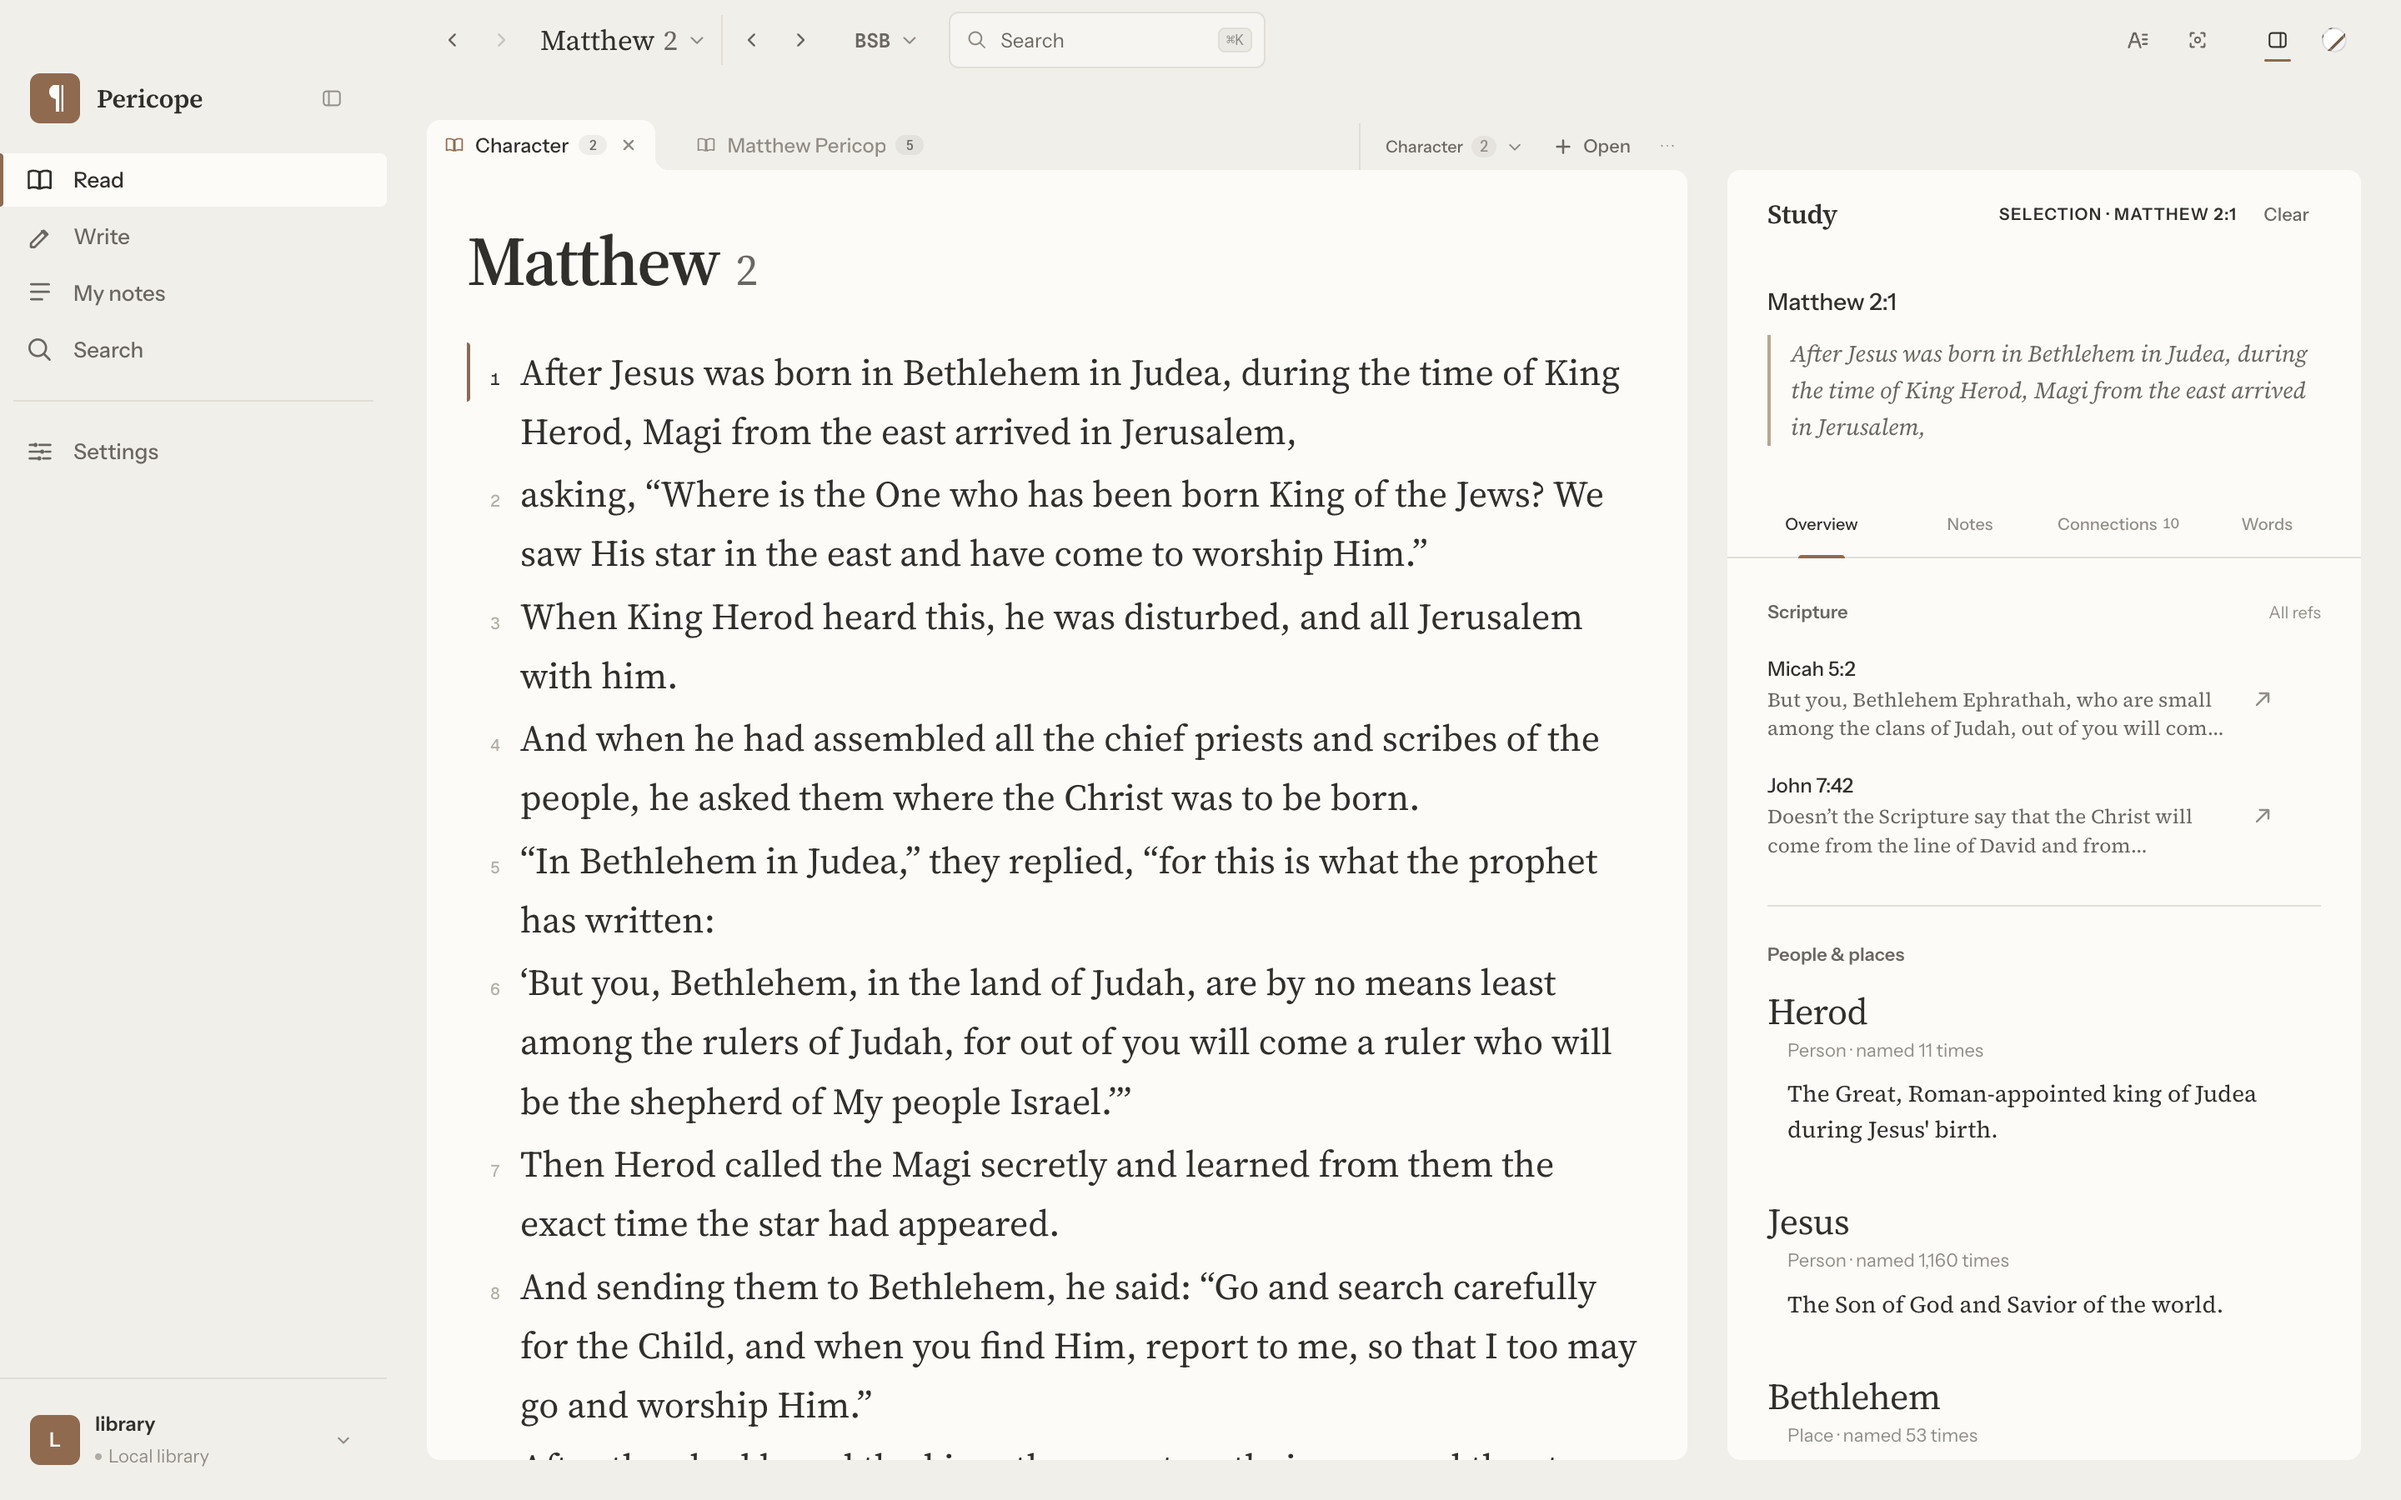
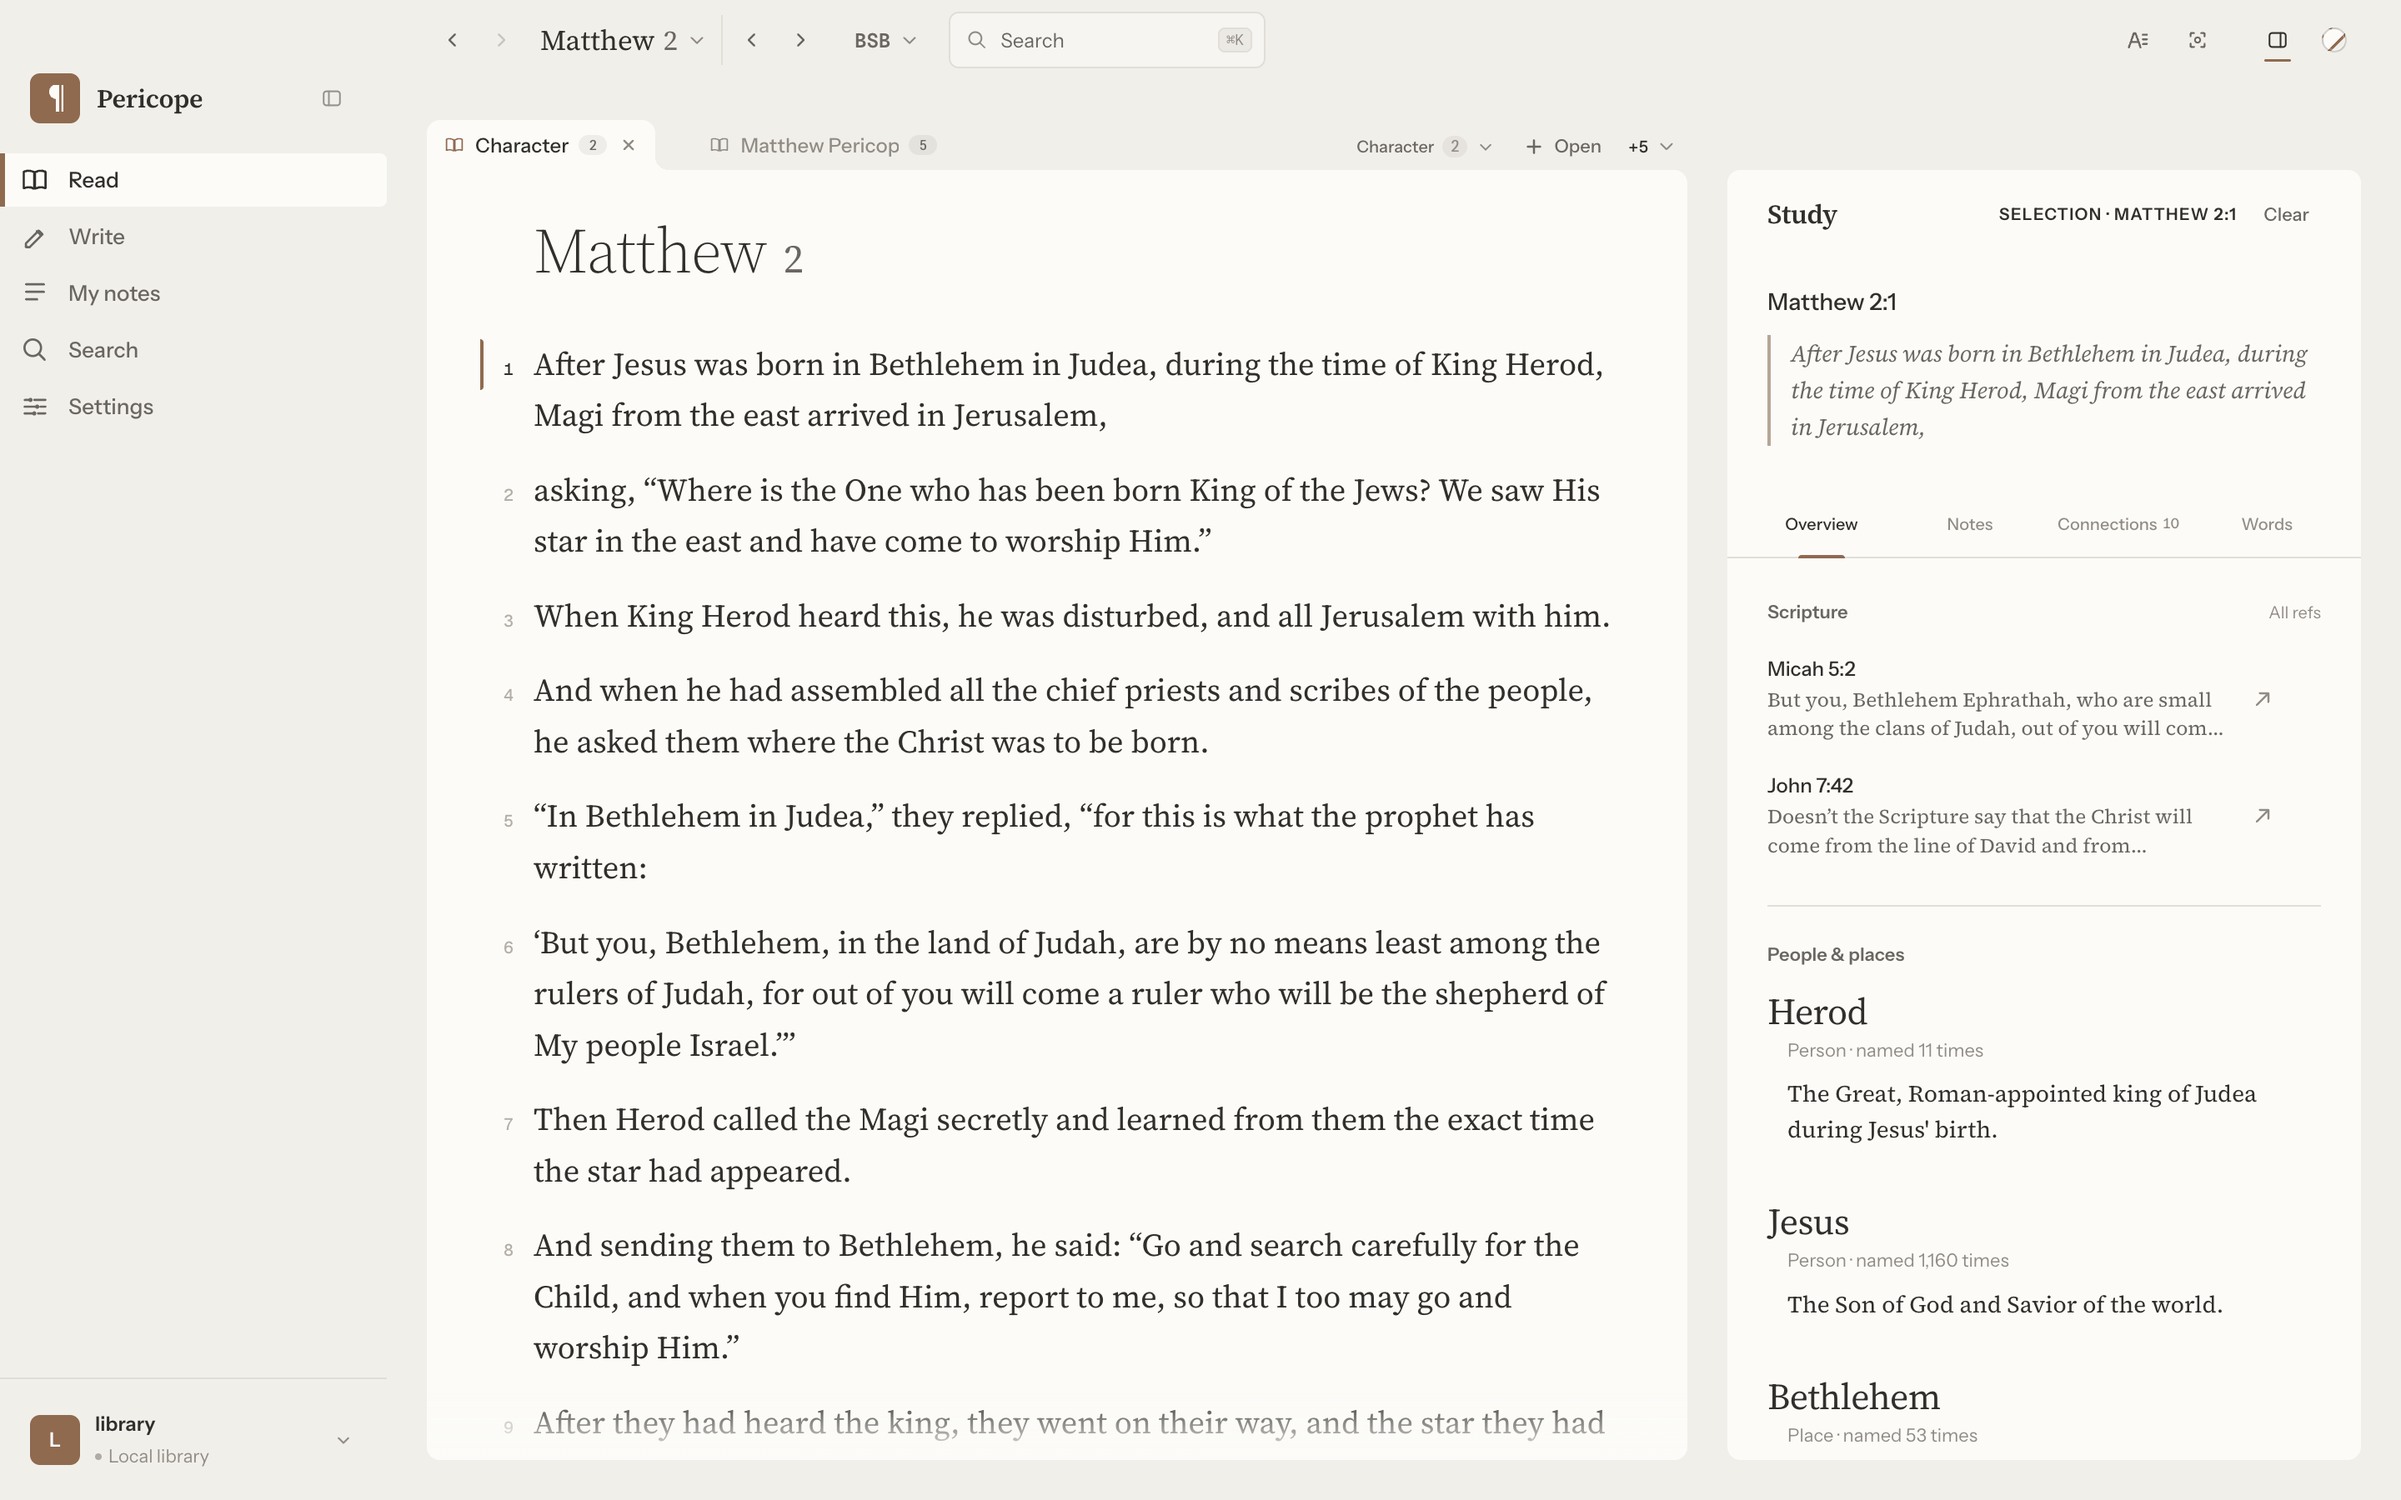
feat: focus mode keeps the rail, as a 12px strip that floats back
A4: "A 12px canvas strip with a 2px grab handle is all that remains — enough to
be discoverable by pointer, too little to be chrome. Hovering it slides the
full rail over the page as a float; moving away dismisses it. The page does not
reflow, ever."

The rail was being unmounted entirely, so entering focus mode reflowed the page
and leaving it reflowed back. A reading column that changes width when you hide
the chrome is a different column, and focus mode exists to leave the column
alone. It now stays mounted and narrows to the strip.

The float is the part worth getting right. position:absolute would have taken
the strip out of flow and shifted the measure 28px the moment the rail
appeared — the exact thing the study forbids. Instead the rail paints its full
232px while a negative margin holds its FLOW width at 12px, so the page never
learns that it grew. Verified: the text's left edge sits at 412 with the strip
closed and at 412 with the rail floated over it.

The floating exit chip goes with it. The strip is the way back, and shipping
both would give focus mode two competing affordances for one act.

Below the narrow breakpoint the strip is suppressed: it is a pointer
affordance, and there is no hover on a touch device to float it with.

diff --git a/src/renderer/styles/rail.css b/src/renderer/styles/rail.css
@@ -282,3 +282,97 @@
     margin: 0;
   }
 }
+
+/* ─── Focus mode (A4) ─────────────────────────────────────────────────────
+   "A 12px canvas strip with a 2px grab handle is all that remains — enough to
+   be discoverable by pointer, too little to be chrome. Hovering it slides the
+   full rail over the page as a float; moving away dismisses it. The page does
+   not reflow, ever."
+
+   That last clause is why the rail stays mounted and narrows rather than
+   unmounting: a reading column that changes width when you hide the chrome is
+   a different column, and focus mode exists to leave the column alone. */
+.app-shell.focus-mode > .sidebar,
+.app-shell.focus-mode > .sidebar.collapsed {
+  width: 12px;
+  min-width: 12px;
+  padding-top: 0;
+  overflow: visible;
+}
+
+.app-shell.focus-mode > .sidebar > *:not(.rail-focus-handle) {
+  opacity: 0;
+  pointer-events: none;
+  transition: opacity var(--transition-fast);
+}
+
+/* The 2px handle, centred in the strip. */
+.rail-focus-handle {
+  position: absolute;
+  top: 50%;
+  left: 5px;
+  width: 2px;
+  height: 24px;
+  padding: 0;
+  border: 0;
+  border-radius: var(--radius-mark);
+  background: var(--border-medium);
+  transform: translateY(-50%);
+  cursor: pointer;
+  transition: background var(--transition-fast);
+}
+
+.rail-focus-handle:hover,
+.rail-focus-handle:focus-visible {
+  background: var(--study-gold);
+}
+
+.rail-focus-handle:focus-visible {
+  outline: 2px solid var(--study-gold-focus);
+  outline-offset: 3px;
+}
+
+/* Hovering the strip floats the whole rail back OVER the page — the one
+   shadow, because this is the one time the rail genuinely floats. The page
+   keeps its 12px offset throughout, so nothing reflows. */
+.app-shell.focus-mode > .sidebar:hover,
+.app-shell.focus-mode > .sidebar:focus-within,
+.app-shell.focus-mode > .sidebar.collapsed:hover,
+.app-shell.focus-mode > .sidebar.collapsed:focus-within {
+  z-index: 40;
+  width: var(--rail-w);
+  margin-right: calc(12px - var(--rail-w));
+  padding-top: env(titlebar-area-height, 28px);
+  background: var(--bg-canvas);
+  box-shadow: var(--shadow-float);
+}
+
+.app-shell.focus-mode > .sidebar:hover > *:not(.rail-focus-handle),
+.app-shell.focus-mode > .sidebar:focus-within > *:not(.rail-focus-handle) {
+  opacity: 1;
+  pointer-events: auto;
+}
+
+.app-shell.focus-mode > .sidebar:hover .rail-focus-handle,
+.app-shell.focus-mode > .sidebar:focus-within .rail-focus-handle {
+  opacity: 0;
+  pointer-events: none;
+}
+
+/* The strip is a pointer affordance. On touch there is no hover to float it
+   with, so focus mode keeps the bottom bar instead. */
+@media (max-width: 979px) {
+  .app-shell.focus-mode > .sidebar {
+    width: 100%;
+    min-width: 0;
+  }
+
+  .app-shell.focus-mode > .sidebar > *:not(.rail-focus-handle) {
+    opacity: 1;
+    pointer-events: auto;
+  }
+
+  .rail-focus-handle {
+    display: none;
+  }
+}

diff --git a/src/renderer/app.tsx b/src/renderer/app.tsx
@@ -1932,11 +1932,23 @@ export function App(): React.JSX.Element {
         onShowToastReady={registerWorkspaceShowToast}
       >
         <div className={shellClass} data-theme={theme}>
-          {!focusMode && (
-            <nav
+          <nav
               className={`sidebar${sidebarCollapsed ? " collapsed" : ""}`}
               aria-label="Primary navigation"
             >
+            {focusMode && (
+              /* All that remains of the rail: enough to be discoverable by a
+                 pointer, too little to be chrome. Hovering it floats the whole
+                 rail back over the page — over, never beside, so the measure
+                 does not move. */
+              <button
+                type="button"
+                className="rail-focus-handle"
+                onClick={toggleFocusMode}
+                aria-label="Bring the rail back (⌘\\)"
+                title="Bring the rail back (⌘\\)"
+              />
+            )}
               <div className="sidebar-header">
                 <div className="brand-row" aria-label="Pericope">
                   <div className="brand-mark">
@@ -2022,8 +2034,7 @@ export function App(): React.JSX.Element {
                 </button>
               </div>
               {libraryPopover}
-            </nav>
-          )}
+          </nav>
           <div className="main-content">
             {view === "scripture" && (
               <ScripturePage
@@ -2135,16 +2146,6 @@ export function App(): React.JSX.Element {
               />
             )}
           </div>
-          {focusMode && (
-            <button
-              type="button"
-              className="focus-exit-chip"
-              onClick={toggleFocusMode}
-              title="Exit focus mode (Esc or F)"
-            >
-              Exit focus
-            </button>
-          )}
           <CommandPalette
             open={commandOpen}
             initialTab={commandInitialTab}
